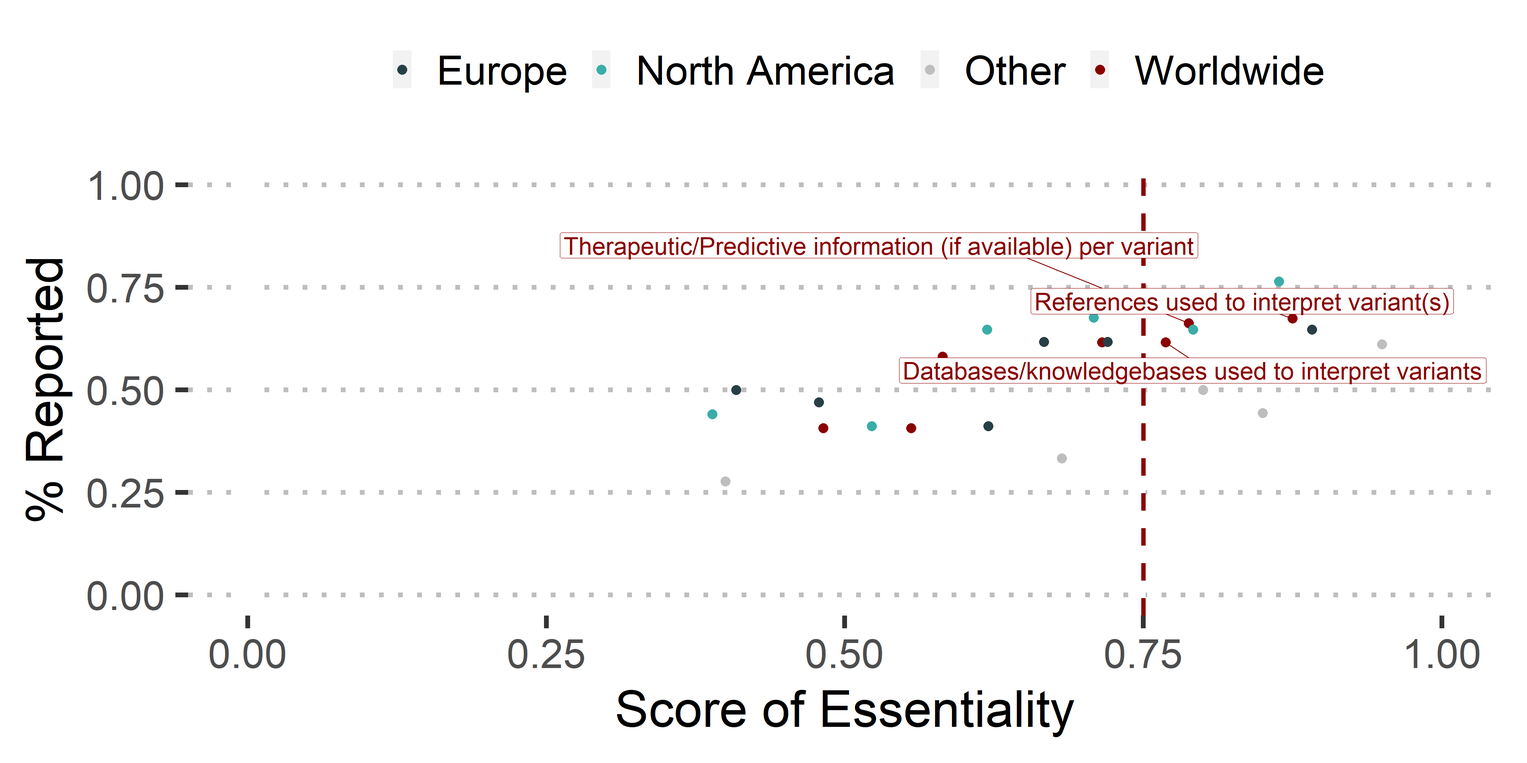
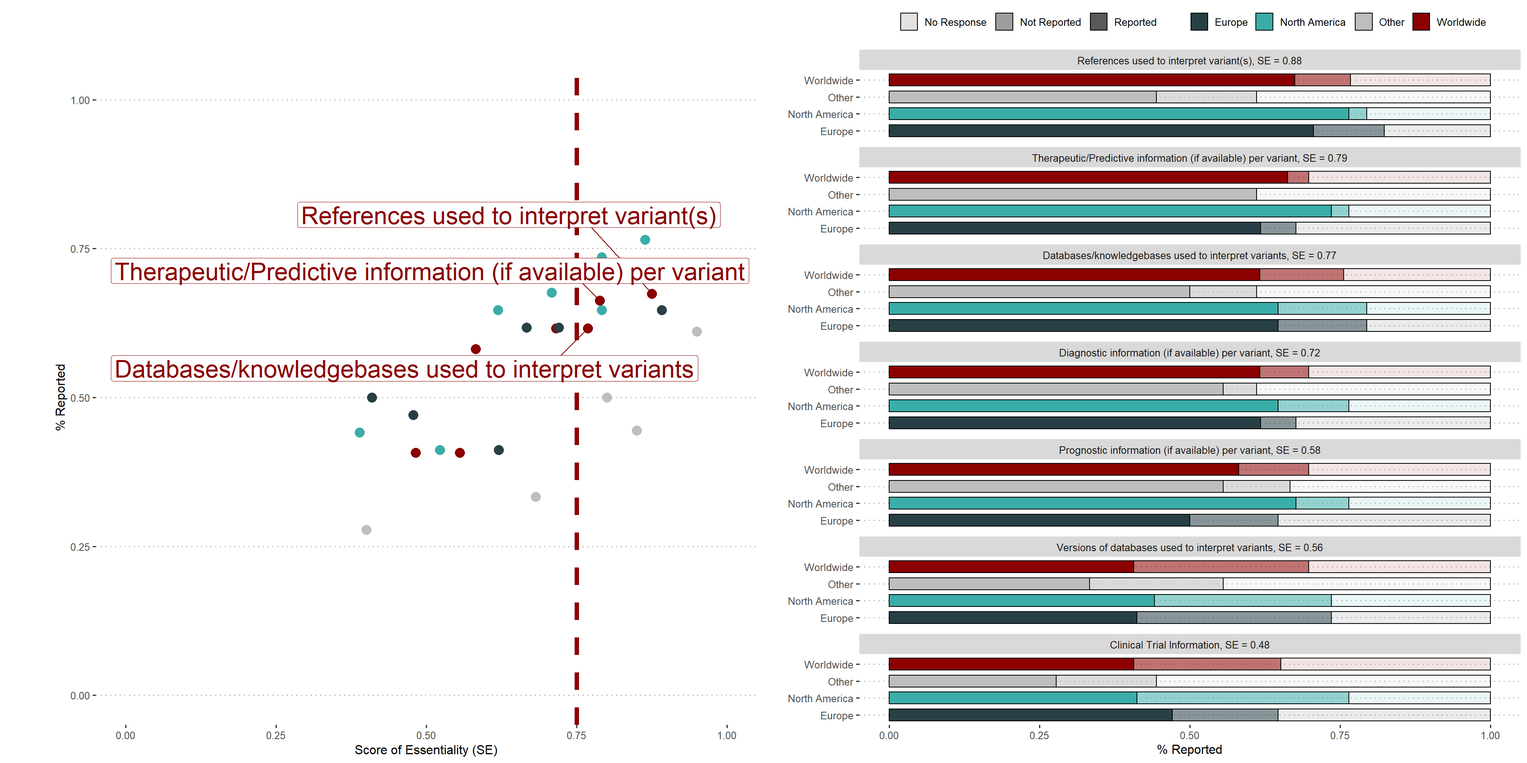
add additional visualization of reporting

diff --git a/docs/index.html b/docs/index.html
@@ -2029,16 +2029,16 @@ represented laboratories in North America (n = 34 ) and Europe (n = 34
 <div class="knitr-options" data-fig-width="576" data-fig-height="460">
 
 </div>
-<div id="htmlwidget-f021030c44f57ef29833" style="width:100%;height:auto;" class="datatables html-widget"></div>
-<script type="application/json" data-for="htmlwidget-f021030c44f57ef29833">{"x":{"style":"bootstrap4","filter":"none","vertical":false,"caption":"<caption>Overview of the number of survey responses for each country.<\/caption>","fillContainer":true,"data":[["1","2","3","4","5","6","7","8","9","10","11","12","13","14","15","16","17","18"],["USA","Germany","Canada","Spain","Australia","India","China",null,"Algeria","Belgium","Brazil","Iran","Oman","Philippines","South Africa","Taiwan","Turkey","UK"],["North America","Europe","North America","Europe","Other","Other","Other","Other","Other","Europe","Other","Other","Other","Other","Other","Other","Europe","Europe"],[25,24,9,7,4,3,2,2,1,1,1,1,1,1,1,1,1,1]],"container":"<table class=\"table table-striped table-hover row-border order-column display fill-container\">\n  <thead>\n    <tr>\n      <th> <\/th>\n      <th>region<\/th>\n      <th>continent<\/th>\n      <th>n<\/th>\n    <\/tr>\n  <\/thead>\n<\/table>","options":{"columnDefs":[{"className":"dt-right","targets":3},{"orderable":false,"targets":0}],"order":[],"autoWidth":false,"orderClasses":false}},"evals":[],"jsHooks":[]}</script>
+<div id="htmlwidget-f25ab85bf888dc624719" style="width:100%;height:auto;" class="datatables html-widget"></div>
+<script type="application/json" data-for="htmlwidget-f25ab85bf888dc624719">{"x":{"style":"bootstrap4","filter":"none","vertical":false,"caption":"<caption>Overview of the number of survey responses for each country.<\/caption>","fillContainer":true,"data":[["1","2","3","4","5","6","7","8","9","10","11","12","13","14","15","16","17","18"],["USA","Germany","Canada","Spain","Australia","India","China",null,"Algeria","Belgium","Brazil","Iran","Oman","Philippines","South Africa","Taiwan","Turkey","UK"],["North America","Europe","North America","Europe","Other","Other","Other","Other","Other","Europe","Other","Other","Other","Other","Other","Other","Europe","Europe"],[25,24,9,7,4,3,2,2,1,1,1,1,1,1,1,1,1,1]],"container":"<table class=\"table table-striped table-hover row-border order-column display fill-container\">\n  <thead>\n    <tr>\n      <th> <\/th>\n      <th>region<\/th>\n      <th>continent<\/th>\n      <th>n<\/th>\n    <\/tr>\n  <\/thead>\n<\/table>","options":{"columnDefs":[{"className":"dt-right","targets":3},{"orderable":false,"targets":0}],"order":[],"autoWidth":false,"orderClasses":false}},"evals":[],"jsHooks":[]}</script>
 </div>
 <div id="essentiality" class="section level3">
 <h3>Essentiality</h3>
 <div class="knitr-options" data-fig-width="576" data-fig-height="460">
 
 </div>
-<div id="htmlwidget-15589fed18d622a76f1d" style="width:100%;height:auto;" class="datatables html-widget"></div>
-<script type="application/json" data-for="htmlwidget-15589fed18d622a76f1d">{"x":{"style":"bootstrap4","filter":"none","vertical":false,"caption":"<caption>Overview of the essentiality calculated by continent.<\/caption>","fillContainer":true,"data":[["1","2","3","4","5","6","7","8","9","10","11","12","13","14","15","16","17","18","19","20","21","22","23","24","25","26","27","28","29","30","31","32","33","34","35","36","37","38","39","40","41","42","43","44","45","46","47","48","49","50","51","52","53","54","55","56","57","58","59","60","61","62","63","64","65","66","67","68","69","70","71","72","73","74","75","76","77","78","79","80","81","82","83","84","85","86","87","88","89","90","91","92","93","94","95","96","97","98","99","100","101","102","103","104","105","106","107","108","109","110","111","112","113","114","115","116","117","118","119","120","121","122","123","124","125","126","127","128","129","130","131","132","133","134","135","136","137","138","139","140","141","142","143","144","145","146","147","148","149","150","151","152","153","154","155","156"],["c. nomenclature in variant list","Clinical Trial ID (NCT#)","Clinical Trial Information","Contact information for trial (phone, email)","Databases/knowledgebases used to interpret variants","Diagnosis","Diagnostic information (if available) per variant","Full Trial Name","Functional mechanism per variant (i.e. loss of function, activating)","g. nomenclature in variant list","Gene list tested by assay","Gene symbol in variant list","Gene transcript per variant","Germline variants classified by ACMG/AMP criteria","Inclusion criteria","List genes/regions with low coverage","List of all locations (states, provinces, countries)","List of biomarkers targeted in trial","Methods/Disclaimer: Assay limitations","Methods/Disclaimer: Assay performance characteristics","Other disclaimers","Other Guidelines Used","p. nomenclature in variant list","Phase of Trial (1,2,3)","Prognostic information (if available) per variant","Qualitative NGS Result Summary (i.e. This result is positive/negative)","References used to interpret variant(s)","Reported list of genetic variants","Somatic variants classified by AMP/ASCO/CAP tiers","Somatic variants classified for pathogenicity/oncogenicity","Sort trials by phase","Therapeutic/Predictive information (if available) per variant","Tissue Source","Trials matched by active recruiting status","Trials matched by location","Tumor purity/percentage","Variant allele frequency per variant","Variant prevalence in patient's tumor type","Versions of databases used to interpret variants","c. nomenclature in variant list","Clinical Trial ID (NCT#)","Clinical Trial Information","Contact information for trial (phone, email)","Databases/knowledgebases used to interpret variants","Diagnosis","Diagnostic information (if available) per variant","Full Trial Name","Functional mechanism per variant (i.e. loss of function, activating)","g. nomenclature in variant list","Gene list tested by assay","Gene symbol in variant list","Gene transcript per variant","Germline variants classified by ACMG/AMP criteria","Inclusion criteria","List genes/regions with low coverage","List of all locations (states, provinces, countries)","List of biomarkers targeted in trial","Methods/Disclaimer: Assay limitations","Methods/Disclaimer: Assay performance characteristics","Other disclaimers","Other Guidelines Used","p. nomenclature in variant list","Phase of Trial (1,2,3)","Prognostic information (if available) per variant","Qualitative NGS Result Summary (i.e. This result is positive/negative)","References used to interpret variant(s)","Reported list of genetic variants","Somatic variants classified by AMP/ASCO/CAP tiers","Somatic variants classified for pathogenicity/oncogenicity","Sort trials by phase","Therapeutic/Predictive information (if available) per variant","Tissue Source","Trials matched by active recruiting status","Trials matched by location","Tumor purity/percentage","Variant allele frequency per variant","Variant prevalence in patient's tumor type","Versions of databases used to interpret variants","c. nomenclature in variant list","Clinical Trial ID (NCT#)","Clinical Trial Information","Contact information for trial (phone, email)","Databases/knowledgebases used to interpret variants","Diagnosis","Diagnostic information (if available) per variant","Full Trial Name","Functional mechanism per variant (i.e. loss of function, activating)","g. nomenclature in variant list","Gene list tested by assay","Gene symbol in variant list","Gene transcript per variant","Germline variants classified by ACMG/AMP criteria","Inclusion criteria","List genes/regions with low coverage","List of all locations (states, provinces, countries)","List of biomarkers targeted in trial","Methods/Disclaimer: Assay limitations","Methods/Disclaimer: Assay performance characteristics","Other disclaimers","Other Guidelines Used","p. nomenclature in variant list","Phase of Trial (1,2,3)","Prognostic information (if available) per variant","Qualitative NGS Result Summary (i.e. This result is positive/negative)","References used to interpret variant(s)","Reported list of genetic variants","Somatic variants classified by AMP/ASCO/CAP tiers","Somatic variants classified for pathogenicity/oncogenicity","Sort trials by phase","Therapeutic/Predictive information (if available) per variant","Tissue Source","Trials matched by active recruiting status","Trials matched by location","Tumor purity/percentage","Variant allele frequency per variant","Variant prevalence in patient's tumor type","Versions of databases used to interpret variants","c. nomenclature in variant list","Clinical Trial ID (NCT#)","Clinical Trial Information","Contact information for trial (phone, email)","Databases/knowledgebases used to interpret variants","Diagnosis","Diagnostic information (if available) per variant","Full Trial Name","Functional mechanism per variant (i.e. loss of function, activating)","g. nomenclature in variant list","Gene list tested by assay","Gene symbol in variant list","Gene transcript per variant","Germline variants classified by ACMG/AMP criteria","Inclusion criteria","List genes/regions with low coverage","List of all locations (states, provinces, countries)","List of biomarkers targeted in trial","Methods/Disclaimer: Assay limitations","Methods/Disclaimer: Assay performance characteristics","Other disclaimers","Other Guidelines Used","p. nomenclature in variant list","Phase of Trial (1,2,3)","Prognostic information (if available) per variant","Qualitative NGS Result Summary (i.e. This result is positive/negative)","References used to interpret variant(s)","Reported list of genetic variants","Somatic variants classified by AMP/ASCO/CAP tiers","Somatic variants classified for pathogenicity/oncogenicity","Sort trials by phase","Therapeutic/Predictive information (if available) per variant","Tissue Source","Trials matched by active recruiting status","Trials matched by location","Tumor purity/percentage","Variant allele frequency per variant","Variant prevalence in patient's tumor type","Versions of databases used to interpret variants"],["general","clinical trial","general","clinical trial","general","general","general","clinical trial","general","general","general","general","general","general","clinical trial","general","clinical trial","clinical trial","general","general","general","general","general","clinical trial","general","general","general","general","general","general","clinical trial","general","general","clinical trial","clinical trial","general","general","general","general","general","clinical trial","general","clinical trial","general","general","general","clinical trial","general","general","general","general","general","general","clinical trial","general","clinical trial","clinical trial","general","general","general","general","general","clinical trial","general","general","general","general","general","general","clinical trial","general","general","clinical trial","clinical trial","general","general","general","general","general","clinical trial","general","clinical trial","general","general","general","clinical trial","general","general","general","general","general","general","clinical trial","general","clinical trial","clinical trial","general","general","general","general","general","clinical trial","general","general","general","general","general","general","clinical trial","general","general","clinical trial","clinical trial","general","general","general","general","general","clinical trial","general","clinical trial","general","general","general","clinical trial","general","general","general","general","general","general","clinical trial","general","clinical trial","clinical trial","general","general","general","general","general","clinical trial","general","general","general","general","general","general","clinical trial","general","general","clinical trial","clinical trial","general","general","general","general"],["Variants",null,"Treatment",null,"Treatment","Overview","Treatment",null,"Functional","Variants",null,"Variants","Variants","Functional",null,null,null,null,"Overview","Overview","Overview",null,"Variants",null,"Treatment","Overview","Treatment","Variants","Functional","Functional",null,"Treatment",null,null,null,"Overview","Variants","Functional","Treatment","Variants",null,"Treatment",null,"Treatment","Overview","Treatment",null,"Functional","Variants",null,"Variants","Variants","Functional",null,null,null,null,"Overview","Overview","Overview",null,"Variants",null,"Treatment","Overview","Treatment","Variants","Functional","Functional",null,"Treatment",null,null,null,"Overview","Variants","Functional","Treatment","Variants",null,"Treatment",null,"Treatment","Overview","Treatment",null,"Functional","Variants",null,"Variants","Variants","Functional",null,null,null,null,"Overview","Overview","Overview",null,"Variants",null,"Treatment","Overview","Treatment","Variants","Functional","Functional",null,"Treatment",null,null,null,"Overview","Variants","Functional","Treatment","Variants",null,"Treatment",null,"Treatment","Overview","Treatment",null,"Functional","Variants",null,"Variants","Variants","Functional",null,null,null,null,"Overview","Overview","Overview",null,"Variants",null,"Treatment","Overview","Treatment","Variants","Functional","Functional",null,"Treatment",null,null,null,"Overview","Variants","Functional","Treatment"],[51.5,64,26.5,21,41.5,53.5,41.5,36,39.5,21.5,50.5,58,46.5,36.5,26,34.5,20,37.5,48.5,46,30,7,55.5,50.5,32,39.5,49,56.5,34,42,22,46.5,56,41,31.5,46.5,48.5,28,30,21.5,27.5,11,8,20.5,24,16,13.5,18.5,11.5,21.5,24,18,12,10.5,12,7.5,17,16,16,8.5,6,25.5,22,9,14.5,21.5,23,10.5,20,9.5,18,24.5,20,16.5,21.5,23,13.5,15.5,20.5,23.5,11.5,6.5,13,19,19,11.5,13.5,6,21.5,21.5,20,16,8.5,17,6.5,12.5,24.5,22.5,15.5,-1.5,20.5,16,17,14.5,19,23,16,14.5,4.5,19,21.5,13,8,15.5,15.5,10.5,7,9.5,13,4,6.5,8,10.5,6.5,11,7.5,4,7.5,12.5,8.5,8.5,7,5.5,6,8,8,7.5,6,2.5,9.5,12.5,6,10.5,8.5,10.5,7.5,7.5,8,9.5,10,8,7,9.5,10,4,7.5],[56,68,55,30,54,59,58,53,55,50,59,60,55,50,36,54,32,49,58,56,44,23,58,60,55,51,56,58,55,56,32,59,58,53,48,56,56,48,54,23,29,23,13,23,24,24,23,22,19,25,25,22,17,17,22,13,23,23,23,17,8,26,27,22,21,24,24,21,23,13,25,26,27,27,24,23,21,25,23,25,22,8,21,24,24,17,22,23,24,22,24,23,11,23,10,16,26,24,20,10,22,20,24,19,22,23,23,22,8,24,22,16,11,22,21,19,18,10,14,10,9,10,11,10,13,11,8,10,13,9,10,8,9,9,10,9,9,7,5,10,13,9,11,10,11,11,11,11,10,10,10,10,10,12,8,11],[0.919642857142857,0.941176470588235,0.481818181818182,0.7,0.768518518518518,0.906779661016949,0.71551724137931,0.679245283018868,0.718181818181818,0.43,0.855932203389831,0.966666666666667,0.845454545454545,0.73,0.722222222222222,0.638888888888889,0.625,0.76530612244898,0.836206896551724,0.821428571428571,0.681818181818182,0.304347826086957,0.956896551724138,0.841666666666667,0.581818181818182,0.774509803921569,0.875,0.974137931034483,0.618181818181818,0.75,0.6875,0.788135593220339,0.96551724137931,0.773584905660377,0.65625,0.830357142857143,0.866071428571429,0.583333333333333,0.555555555555556,0.934782608695652,0.948275862068966,0.478260869565217,0.615384615384615,0.891304347826087,1,0.666666666666667,0.58695652173913,0.840909090909091,0.605263157894737,0.86,0.96,0.818181818181818,0.705882352941177,0.617647058823529,0.545454545454545,0.576923076923077,0.739130434782609,0.695652173913043,0.695652173913043,0.5,0.75,0.980769230769231,0.814814814814815,0.409090909090909,0.69047619047619,0.895833333333333,0.958333333333333,0.5,0.869565217391304,0.730769230769231,0.72,0.942307692307692,0.740740740740741,0.611111111111111,0.895833333333333,1,0.642857142857143,0.62,0.891304347826087,0.94,0.522727272727273,0.8125,0.619047619047619,0.791666666666667,0.791666666666667,0.676470588235294,0.613636363636364,0.260869565217391,0.895833333333333,0.977272727272727,0.833333333333333,0.695652173913043,0.772727272727273,0.739130434782609,0.65,0.78125,0.942307692307692,0.9375,0.775,-0.15,0.931818181818182,0.8,0.708333333333333,0.763157894736842,0.863636363636364,1,0.695652173913043,0.659090909090909,0.5625,0.791666666666667,0.977272727272727,0.8125,0.727272727272727,0.704545454545455,0.738095238095238,0.552631578947368,0.388888888888889,0.95,0.928571428571429,0.4,0.722222222222222,0.8,0.954545454545455,0.65,0.846153846153846,0.681818181818182,0.5,0.75,0.961538461538462,0.944444444444444,0.85,0.875,0.611111111111111,0.666666666666667,0.8,0.888888888888889,0.833333333333333,0.857142857142857,0.5,0.95,0.961538461538462,0.666666666666667,0.954545454545455,0.85,0.954545454545455,0.681818181818182,0.681818181818182,0.727272727272727,0.95,1,0.8,0.7,0.95,0.833333333333333,0.5,0.681818181818182],["Worldwide","Worldwide","Worldwide","Worldwide","Worldwide","Worldwide","Worldwide","Worldwide","Worldwide","Worldwide","Worldwide","Worldwide","Worldwide","Worldwide","Worldwide","Worldwide","Worldwide","Worldwide","Worldwide","Worldwide","Worldwide","Worldwide","Worldwide","Worldwide","Worldwide","Worldwide","Worldwide","Worldwide","Worldwide","Worldwide","Worldwide","Worldwide","Worldwide","Worldwide","Worldwide","Worldwide","Worldwide","Worldwide","Worldwide","Europe","Europe","Europe","Europe","Europe","Europe","Europe","Europe","Europe","Europe","Europe","Europe","Europe","Europe","Europe","Europe","Europe","Europe","Europe","Europe","Europe","Europe","Europe","Europe","Europe","Europe","Europe","Europe","Europe","Europe","Europe","Europe","Europe","Europe","Europe","Europe","Europe","Europe","Europe","North America","North America","North America","North America","North America","North America","North America","North America","North America","North America","North America","North America","North America","North America","North America","North America","North America","North America","North America","North America","North America","North America","North America","North America","North America","North America","North America","North America","North America","North America","North America","North America","North America","North America","North America","North America","North America","North America","North America","Other","Other","Other","Other","Other","Other","Other","Other","Other","Other","Other","Other","Other","Other","Other","Other","Other","Other","Other","Other","Other","Other","Other","Other","Other","Other","Other","Other","Other","Other","Other","Other","Other","Other","Other","Other","Other","Other","Other"]],"container":"<table class=\"table table-striped table-hover row-border order-column display fill-container\">\n  <thead>\n    <tr>\n      <th> <\/th>\n      <th>name<\/th>\n      <th>group<\/th>\n      <th>section<\/th>\n      <th>sumEssent<\/th>\n      <th>totEssent<\/th>\n      <th>normEssent<\/th>\n      <th>continent<\/th>\n    <\/tr>\n  <\/thead>\n<\/table>","options":{"columnDefs":[{"className":"dt-right","targets":[4,5,6]},{"orderable":false,"targets":0}],"order":[],"autoWidth":false,"orderClasses":false}},"evals":[],"jsHooks":[]}</script>
+<div id="htmlwidget-06a988fdd2a34d502a66" style="width:100%;height:auto;" class="datatables html-widget"></div>
+<script type="application/json" data-for="htmlwidget-06a988fdd2a34d502a66">{"x":{"style":"bootstrap4","filter":"none","vertical":false,"caption":"<caption>Overview of the essentiality calculated by continent.<\/caption>","fillContainer":true,"data":[["1","2","3","4","5","6","7","8","9","10","11","12","13","14","15","16","17","18","19","20","21","22","23","24","25","26","27","28","29","30","31","32","33","34","35","36","37","38","39","40","41","42","43","44","45","46","47","48","49","50","51","52","53","54","55","56","57","58","59","60","61","62","63","64","65","66","67","68","69","70","71","72","73","74","75","76","77","78","79","80","81","82","83","84","85","86","87","88","89","90","91","92","93","94","95","96","97","98","99","100","101","102","103","104","105","106","107","108","109","110","111","112","113","114","115","116","117","118","119","120","121","122","123","124","125","126","127","128","129","130","131","132","133","134","135","136","137","138","139","140","141","142","143","144","145","146","147","148","149","150","151","152","153","154","155","156"],["c. nomenclature in variant list","Clinical Trial ID (NCT#)","Clinical Trial Information","Contact information for trial (phone, email)","Databases/knowledgebases used to interpret variants","Diagnosis","Diagnostic information (if available) per variant","Full Trial Name","Functional mechanism per variant (i.e. loss of function, activating)","g. nomenclature in variant list","Gene list tested by assay","Gene symbol in variant list","Gene transcript per variant","Germline variants classified by ACMG/AMP criteria","Inclusion criteria","List genes/regions with low coverage","List of all locations (states, provinces, countries)","List of biomarkers targeted in trial","Methods/Disclaimer: Assay limitations","Methods/Disclaimer: Assay performance characteristics","Other disclaimers","Other Guidelines Used","p. nomenclature in variant list","Phase of Trial (1,2,3)","Prognostic information (if available) per variant","Qualitative NGS Result Summary (i.e. This result is positive/negative)","References used to interpret variant(s)","Reported list of genetic variants","Somatic variants classified by AMP/ASCO/CAP tiers","Somatic variants classified for pathogenicity/oncogenicity","Sort trials by phase","Therapeutic/Predictive information (if available) per variant","Tissue Source","Trials matched by active recruiting status","Trials matched by location","Tumor purity/percentage","Variant allele frequency per variant","Variant prevalence in patient's tumor type","Versions of databases used to interpret variants","c. nomenclature in variant list","Clinical Trial ID (NCT#)","Clinical Trial Information","Contact information for trial (phone, email)","Databases/knowledgebases used to interpret variants","Diagnosis","Diagnostic information (if available) per variant","Full Trial Name","Functional mechanism per variant (i.e. loss of function, activating)","g. nomenclature in variant list","Gene list tested by assay","Gene symbol in variant list","Gene transcript per variant","Germline variants classified by ACMG/AMP criteria","Inclusion criteria","List genes/regions with low coverage","List of all locations (states, provinces, countries)","List of biomarkers targeted in trial","Methods/Disclaimer: Assay limitations","Methods/Disclaimer: Assay performance characteristics","Other disclaimers","Other Guidelines Used","p. nomenclature in variant list","Phase of Trial (1,2,3)","Prognostic information (if available) per variant","Qualitative NGS Result Summary (i.e. This result is positive/negative)","References used to interpret variant(s)","Reported list of genetic variants","Somatic variants classified by AMP/ASCO/CAP tiers","Somatic variants classified for pathogenicity/oncogenicity","Sort trials by phase","Therapeutic/Predictive information (if available) per variant","Tissue Source","Trials matched by active recruiting status","Trials matched by location","Tumor purity/percentage","Variant allele frequency per variant","Variant prevalence in patient's tumor type","Versions of databases used to interpret variants","c. nomenclature in variant list","Clinical Trial ID (NCT#)","Clinical Trial Information","Contact information for trial (phone, email)","Databases/knowledgebases used to interpret variants","Diagnosis","Diagnostic information (if available) per variant","Full Trial Name","Functional mechanism per variant (i.e. loss of function, activating)","g. nomenclature in variant list","Gene list tested by assay","Gene symbol in variant list","Gene transcript per variant","Germline variants classified by ACMG/AMP criteria","Inclusion criteria","List genes/regions with low coverage","List of all locations (states, provinces, countries)","List of biomarkers targeted in trial","Methods/Disclaimer: Assay limitations","Methods/Disclaimer: Assay performance characteristics","Other disclaimers","Other Guidelines Used","p. nomenclature in variant list","Phase of Trial (1,2,3)","Prognostic information (if available) per variant","Qualitative NGS Result Summary (i.e. This result is positive/negative)","References used to interpret variant(s)","Reported list of genetic variants","Somatic variants classified by AMP/ASCO/CAP tiers","Somatic variants classified for pathogenicity/oncogenicity","Sort trials by phase","Therapeutic/Predictive information (if available) per variant","Tissue Source","Trials matched by active recruiting status","Trials matched by location","Tumor purity/percentage","Variant allele frequency per variant","Variant prevalence in patient's tumor type","Versions of databases used to interpret variants","c. nomenclature in variant list","Clinical Trial ID (NCT#)","Clinical Trial Information","Contact information for trial (phone, email)","Databases/knowledgebases used to interpret variants","Diagnosis","Diagnostic information (if available) per variant","Full Trial Name","Functional mechanism per variant (i.e. loss of function, activating)","g. nomenclature in variant list","Gene list tested by assay","Gene symbol in variant list","Gene transcript per variant","Germline variants classified by ACMG/AMP criteria","Inclusion criteria","List genes/regions with low coverage","List of all locations (states, provinces, countries)","List of biomarkers targeted in trial","Methods/Disclaimer: Assay limitations","Methods/Disclaimer: Assay performance characteristics","Other disclaimers","Other Guidelines Used","p. nomenclature in variant list","Phase of Trial (1,2,3)","Prognostic information (if available) per variant","Qualitative NGS Result Summary (i.e. This result is positive/negative)","References used to interpret variant(s)","Reported list of genetic variants","Somatic variants classified by AMP/ASCO/CAP tiers","Somatic variants classified for pathogenicity/oncogenicity","Sort trials by phase","Therapeutic/Predictive information (if available) per variant","Tissue Source","Trials matched by active recruiting status","Trials matched by location","Tumor purity/percentage","Variant allele frequency per variant","Variant prevalence in patient's tumor type","Versions of databases used to interpret variants"],["general","clinical trial","general","clinical trial","general","general","general","clinical trial","general","general","general","general","general","general","clinical trial","general","clinical trial","clinical trial","general","general","general","general","general","clinical trial","general","general","general","general","general","general","clinical trial","general","general","clinical trial","clinical trial","general","general","general","general","general","clinical trial","general","clinical trial","general","general","general","clinical trial","general","general","general","general","general","general","clinical trial","general","clinical trial","clinical trial","general","general","general","general","general","clinical trial","general","general","general","general","general","general","clinical trial","general","general","clinical trial","clinical trial","general","general","general","general","general","clinical trial","general","clinical trial","general","general","general","clinical trial","general","general","general","general","general","general","clinical trial","general","clinical trial","clinical trial","general","general","general","general","general","clinical trial","general","general","general","general","general","general","clinical trial","general","general","clinical trial","clinical trial","general","general","general","general","general","clinical trial","general","clinical trial","general","general","general","clinical trial","general","general","general","general","general","general","clinical trial","general","clinical trial","clinical trial","general","general","general","general","general","clinical trial","general","general","general","general","general","general","clinical trial","general","general","clinical trial","clinical trial","general","general","general","general"],["Variants",null,"Treatment",null,"Treatment","Overview","Treatment",null,"Functional","Variants",null,"Variants","Variants","Functional",null,null,null,null,"Overview","Overview","Overview",null,"Variants",null,"Treatment","Overview","Treatment","Variants","Functional","Functional",null,"Treatment",null,null,null,"Overview","Variants","Functional","Treatment","Variants",null,"Treatment",null,"Treatment","Overview","Treatment",null,"Functional","Variants",null,"Variants","Variants","Functional",null,null,null,null,"Overview","Overview","Overview",null,"Variants",null,"Treatment","Overview","Treatment","Variants","Functional","Functional",null,"Treatment",null,null,null,"Overview","Variants","Functional","Treatment","Variants",null,"Treatment",null,"Treatment","Overview","Treatment",null,"Functional","Variants",null,"Variants","Variants","Functional",null,null,null,null,"Overview","Overview","Overview",null,"Variants",null,"Treatment","Overview","Treatment","Variants","Functional","Functional",null,"Treatment",null,null,null,"Overview","Variants","Functional","Treatment","Variants",null,"Treatment",null,"Treatment","Overview","Treatment",null,"Functional","Variants",null,"Variants","Variants","Functional",null,null,null,null,"Overview","Overview","Overview",null,"Variants",null,"Treatment","Overview","Treatment","Variants","Functional","Functional",null,"Treatment",null,null,null,"Overview","Variants","Functional","Treatment"],[51.5,64,26.5,21,41.5,53.5,41.5,36,39.5,21.5,50.5,58,46.5,36.5,26,34.5,20,37.5,48.5,46,30,7,55.5,50.5,32,39.5,49,56.5,34,42,22,46.5,56,41,31.5,46.5,48.5,28,30,21.5,27.5,11,8,20.5,24,16,13.5,18.5,11.5,21.5,24,18,12,10.5,12,7.5,17,16,16,8.5,6,25.5,22,9,14.5,21.5,23,10.5,20,9.5,18,24.5,20,16.5,21.5,23,13.5,15.5,20.5,23.5,11.5,6.5,13,19,19,11.5,13.5,6,21.5,21.5,20,16,8.5,17,6.5,12.5,24.5,22.5,15.5,-1.5,20.5,16,17,14.5,19,23,16,14.5,4.5,19,21.5,13,8,15.5,15.5,10.5,7,9.5,13,4,6.5,8,10.5,6.5,11,7.5,4,7.5,12.5,8.5,8.5,7,5.5,6,8,8,7.5,6,2.5,9.5,12.5,6,10.5,8.5,10.5,7.5,7.5,8,9.5,10,8,7,9.5,10,4,7.5],[56,68,55,30,54,59,58,53,55,50,59,60,55,50,36,54,32,49,58,56,44,23,58,60,55,51,56,58,55,56,32,59,58,53,48,56,56,48,54,23,29,23,13,23,24,24,23,22,19,25,25,22,17,17,22,13,23,23,23,17,8,26,27,22,21,24,24,21,23,13,25,26,27,27,24,23,21,25,23,25,22,8,21,24,24,17,22,23,24,22,24,23,11,23,10,16,26,24,20,10,22,20,24,19,22,23,23,22,8,24,22,16,11,22,21,19,18,10,14,10,9,10,11,10,13,11,8,10,13,9,10,8,9,9,10,9,9,7,5,10,13,9,11,10,11,11,11,11,10,10,10,10,10,12,8,11],[0.919642857142857,0.941176470588235,0.481818181818182,0.7,0.768518518518518,0.906779661016949,0.71551724137931,0.679245283018868,0.718181818181818,0.43,0.855932203389831,0.966666666666667,0.845454545454545,0.73,0.722222222222222,0.638888888888889,0.625,0.76530612244898,0.836206896551724,0.821428571428571,0.681818181818182,0.304347826086957,0.956896551724138,0.841666666666667,0.581818181818182,0.774509803921569,0.875,0.974137931034483,0.618181818181818,0.75,0.6875,0.788135593220339,0.96551724137931,0.773584905660377,0.65625,0.830357142857143,0.866071428571429,0.583333333333333,0.555555555555556,0.934782608695652,0.948275862068966,0.478260869565217,0.615384615384615,0.891304347826087,1,0.666666666666667,0.58695652173913,0.840909090909091,0.605263157894737,0.86,0.96,0.818181818181818,0.705882352941177,0.617647058823529,0.545454545454545,0.576923076923077,0.739130434782609,0.695652173913043,0.695652173913043,0.5,0.75,0.980769230769231,0.814814814814815,0.409090909090909,0.69047619047619,0.895833333333333,0.958333333333333,0.5,0.869565217391304,0.730769230769231,0.72,0.942307692307692,0.740740740740741,0.611111111111111,0.895833333333333,1,0.642857142857143,0.62,0.891304347826087,0.94,0.522727272727273,0.8125,0.619047619047619,0.791666666666667,0.791666666666667,0.676470588235294,0.613636363636364,0.260869565217391,0.895833333333333,0.977272727272727,0.833333333333333,0.695652173913043,0.772727272727273,0.739130434782609,0.65,0.78125,0.942307692307692,0.9375,0.775,-0.15,0.931818181818182,0.8,0.708333333333333,0.763157894736842,0.863636363636364,1,0.695652173913043,0.659090909090909,0.5625,0.791666666666667,0.977272727272727,0.8125,0.727272727272727,0.704545454545455,0.738095238095238,0.552631578947368,0.388888888888889,0.95,0.928571428571429,0.4,0.722222222222222,0.8,0.954545454545455,0.65,0.846153846153846,0.681818181818182,0.5,0.75,0.961538461538462,0.944444444444444,0.85,0.875,0.611111111111111,0.666666666666667,0.8,0.888888888888889,0.833333333333333,0.857142857142857,0.5,0.95,0.961538461538462,0.666666666666667,0.954545454545455,0.85,0.954545454545455,0.681818181818182,0.681818181818182,0.727272727272727,0.95,1,0.8,0.7,0.95,0.833333333333333,0.5,0.681818181818182],["Worldwide","Worldwide","Worldwide","Worldwide","Worldwide","Worldwide","Worldwide","Worldwide","Worldwide","Worldwide","Worldwide","Worldwide","Worldwide","Worldwide","Worldwide","Worldwide","Worldwide","Worldwide","Worldwide","Worldwide","Worldwide","Worldwide","Worldwide","Worldwide","Worldwide","Worldwide","Worldwide","Worldwide","Worldwide","Worldwide","Worldwide","Worldwide","Worldwide","Worldwide","Worldwide","Worldwide","Worldwide","Worldwide","Worldwide","Europe","Europe","Europe","Europe","Europe","Europe","Europe","Europe","Europe","Europe","Europe","Europe","Europe","Europe","Europe","Europe","Europe","Europe","Europe","Europe","Europe","Europe","Europe","Europe","Europe","Europe","Europe","Europe","Europe","Europe","Europe","Europe","Europe","Europe","Europe","Europe","Europe","Europe","Europe","North America","North America","North America","North America","North America","North America","North America","North America","North America","North America","North America","North America","North America","North America","North America","North America","North America","North America","North America","North America","North America","North America","North America","North America","North America","North America","North America","North America","North America","North America","North America","North America","North America","North America","North America","North America","North America","North America","North America","Other","Other","Other","Other","Other","Other","Other","Other","Other","Other","Other","Other","Other","Other","Other","Other","Other","Other","Other","Other","Other","Other","Other","Other","Other","Other","Other","Other","Other","Other","Other","Other","Other","Other","Other","Other","Other","Other","Other"]],"container":"<table class=\"table table-striped table-hover row-border order-column display fill-container\">\n  <thead>\n    <tr>\n      <th> <\/th>\n      <th>name<\/th>\n      <th>group<\/th>\n      <th>section<\/th>\n      <th>sumEssent<\/th>\n      <th>totEssent<\/th>\n      <th>normEssent<\/th>\n      <th>continent<\/th>\n    <\/tr>\n  <\/thead>\n<\/table>","options":{"columnDefs":[{"className":"dt-right","targets":[4,5,6]},{"orderable":false,"targets":0}],"order":[],"autoWidth":false,"orderClasses":false}},"evals":[],"jsHooks":[]}</script>
 </div>
 </div>
 <div id="methods" class="section level1">
